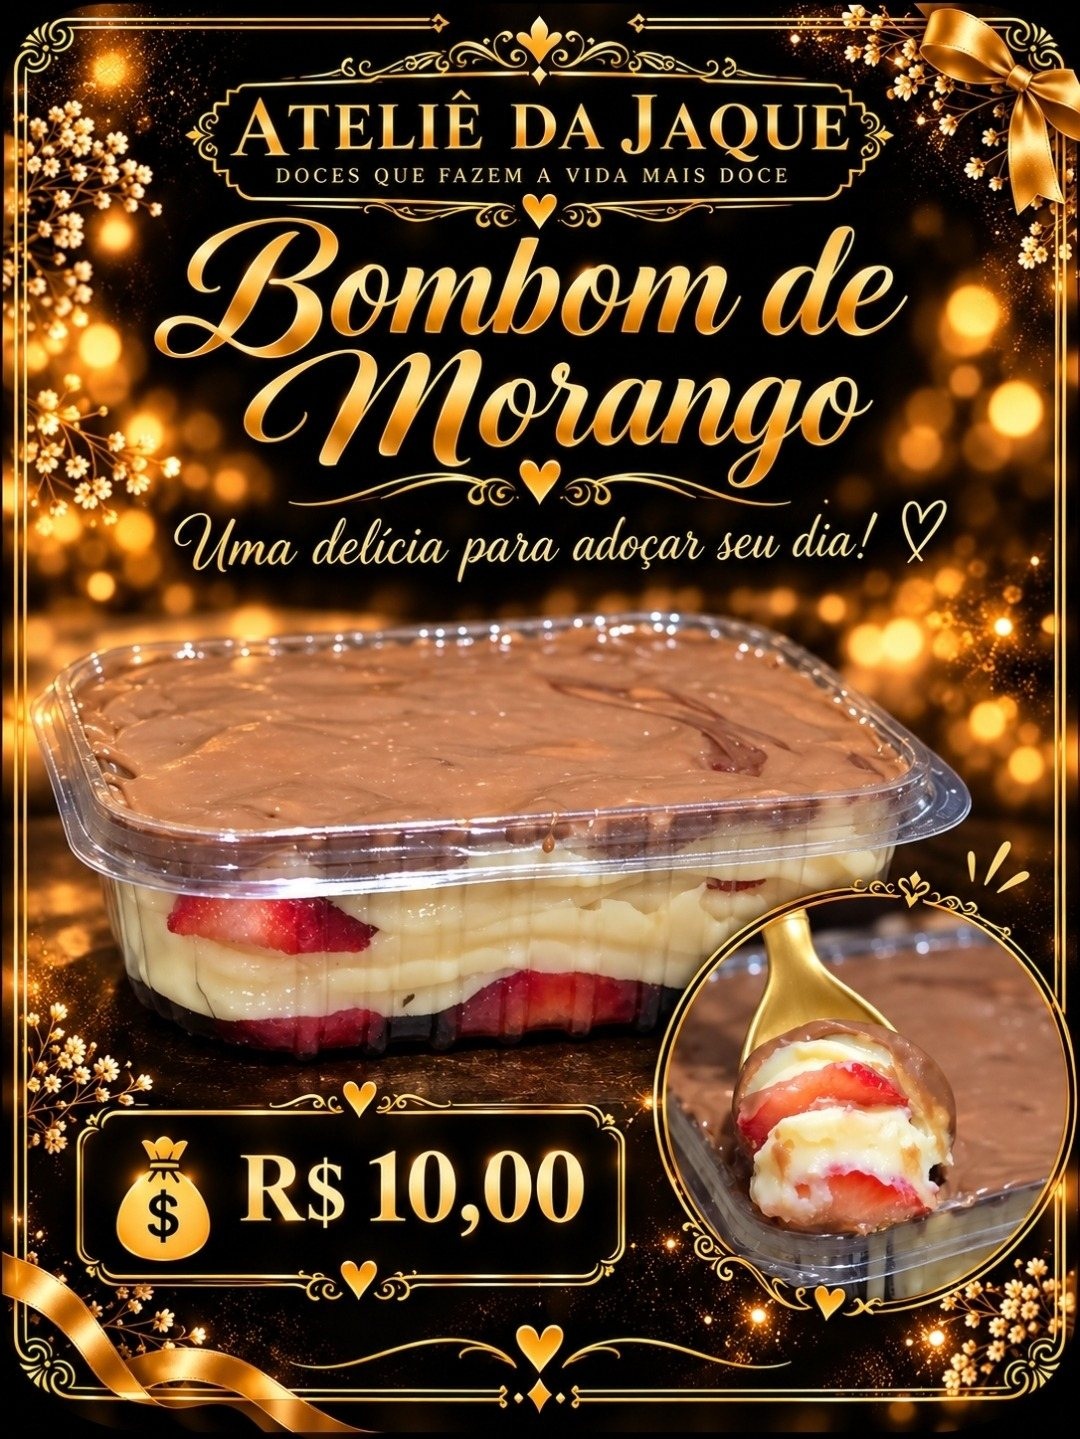
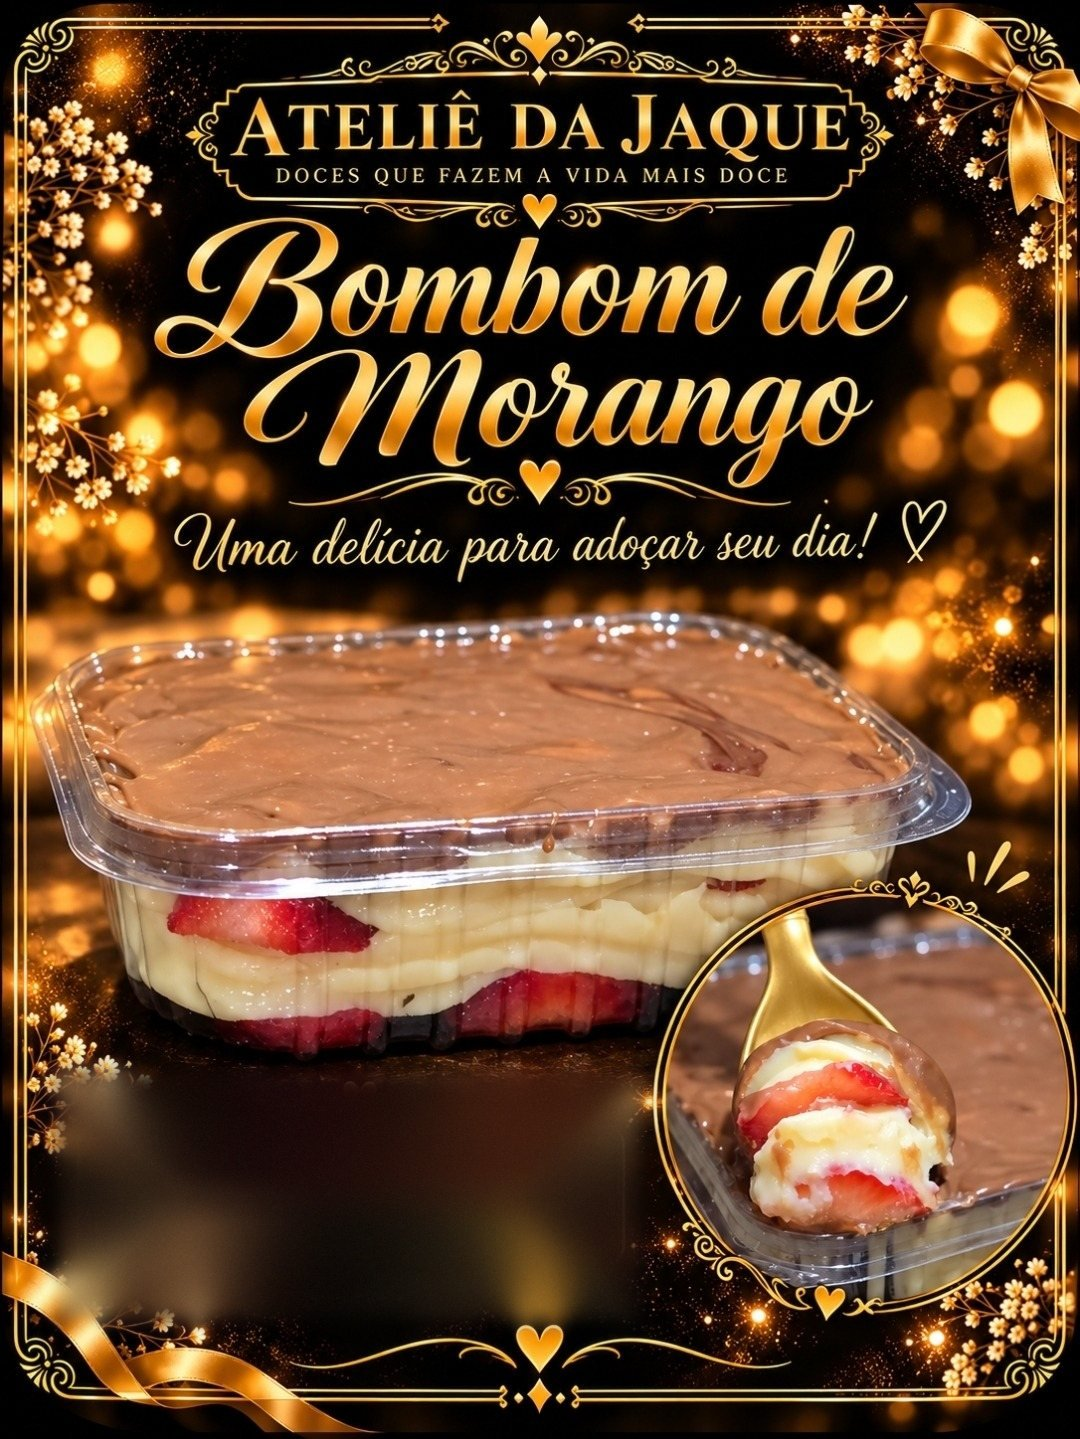
Tira os preços das artes e usa letras no estilo do cardápio
Claude-Session: https://claude.ai/code/session_01LCVrVbQVdz8PtvLMY6FXuL

Changed region(s): [[0.0306, 0.7338, 0.6111, 0.9479]]

diff --git a/css/estilo.css b/css/estilo.css
@@ -16,6 +16,8 @@
   --f-titulo: "Playfair Display", Georgia, "Times New Roman", serif;
   --f-frase: "Cormorant Garamond", Georgia, serif;
   --f-texto: "Lato", "Segoe UI", system-ui, sans-serif;
+  --f-marca: "Cinzel", "Times New Roman", serif;
+  --f-script: "Great Vibes", "Brush Script MT", cursive;
 
   --raio: 14px;
   --largura: 1120px;
@@ -64,7 +66,7 @@ body::before { content: ""; position: fixed; inset: 0 0 auto; height: env(safe-a
   display: flex; align-items: center; justify-content: space-between; gap: 1rem; flex-wrap: wrap;
 }
 .marca { text-decoration: none; display: flex; flex-direction: column; line-height: 1.1; }
-.marca-nome { font-family: var(--f-titulo); font-size: 1.3rem; color: var(--ouro-claro); letter-spacing: .04em; }
+.marca-nome { font-family: var(--f-marca); font-weight: 600; font-size: 1.25rem; color: var(--ouro-claro); letter-spacing: .08em; text-transform: uppercase; }
 .marca-sub { font-family: var(--f-frase); font-style: italic; font-size: .95rem; color: var(--creme-2); }
 .menu { display: flex; gap: 1.2rem; flex-wrap: wrap; }
 .menu a { color: var(--creme); text-decoration: none; font-size: .9rem; letter-spacing: .04em; }
@@ -270,3 +272,10 @@ body.tem-pedido .zap-flutuante { display: none; }
 .sacola-acoes .btn-zap { flex: 1; }
 .variante { display: block; font-family: var(--f-texto); font-size: .85rem; color: var(--creme); margin-bottom: .2rem; }
 .rodape p { margin: .2rem 0; } .rodape-zap { letter-spacing: .06em; text-transform: none; }
+
+/* letras no estilo das artes do cardápio */
+.sobre-titulo, .destaque-tag, .aviso dt, .selo, .rodape, .filtro { font-family: var(--f-marca); font-weight: 600; }
+.hero h1 .script { display: block; font-family: var(--f-script); font-weight: 400; color: var(--ouro); font-size: 1.25em; line-height: 1.05; margin-top: .1em; }
+.secao h2 { font-family: var(--f-script); font-weight: 400; color: var(--ouro); font-size: clamp(2.6rem, 6vw, 3.8rem); line-height: 1.1; }
+.obrigado { font-family: var(--f-script); font-style: normal; font-size: 2rem; }
+.destaque-nome, .produto h3 { color: var(--ouro-claro); }

diff --git a/index.html b/index.html
@@ -40,7 +40,7 @@
 </script>
 <link rel="preconnect" href="https://fonts.googleapis.com">
 <link rel="preconnect" href="https://fonts.gstatic.com" crossorigin>
-<link rel="stylesheet" href="https://fonts.googleapis.com/css2?family=Playfair+Display:wght@600;700&family=Cormorant+Garamond:ital,wght@0,500;1,500&family=Lato:wght@400;700&display=swap">
+<link rel="stylesheet" href="https://fonts.googleapis.com/css2?family=Cinzel:wght@500;600;700&family=Great+Vibes&family=Playfair+Display:wght@600;700&family=Cormorant+Garamond:ital,wght@0,500;1,500&family=Lato:wght@400;700&display=swap">
 <link rel="stylesheet" href="css/estilo.css">
 </head>
 <body>
@@ -65,7 +65,7 @@
     <img class="hero-foto" src="img/hero-mesa-doces.jpg" alt="Mesa de doces com brigadeiros, docinhos de Ninho com Nutella, cupcakes e brownies" width="1000" height="570">
     <div class="hero-texto">
       <p class="sobre-titulo">Doces que fazem a vida mais doce</p>
-      <h1>Docinhos para festas e para o seu dia</h1>
+      <h1>Docinhos para festas <span class="script">e para o seu dia</span></h1>
       <p class="hero-lead">Brigadeiros, docinhos gourmet, cupcakes, brownie e o nosso bombom de morango aberto. Tudo feito à mão, com chocolate nobre, em Araguari (MG).</p>
       <div class="acoes">
         <a class="btn btn-ouro" href="#cardapio">Ver o cardápio</a>
